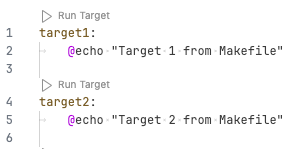
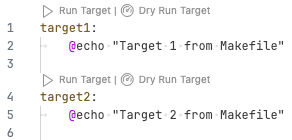
Dry run

diff --git a/src/inlineTargetRunner.ts b/src/inlineTargetRunner.ts
@@ -5,18 +5,8 @@ import * as target from "./target";
 import * as utils from "./utils";
 import { Runner } from "./runner";
 
-class TargetCodeLens extends vscode.CodeLens {
-  constructor(
-    range: vscode.Range,
-    public target: target.Target,
-    command?: vscode.Command
-  ) {
-    super(range, command);
-  }
-}
-
 export class InlineTargetRunner implements vscode.CodeLensProvider {
-  private codeLenses: TargetCodeLens[] = [];
+  private codeLenses: vscode.CodeLens[] = [];
   private _onDidChangeCodeLenses: vscode.EventEmitter<void> =
     new vscode.EventEmitter<void>();
   public readonly onDidChangeCodeLenses: vscode.Event<void> =
@@ -55,12 +45,7 @@ export class InlineTargetRunner implements vscode.CodeLensProvider {
       comment,
       matchIndex,
     } of this.runner.getMatchedTargetsInText(text)) {
-      const matchPosition: vscode.Position = document.positionAt(
-        matchIndex + comment.length + 2
-        // TODO: why 2?
-        // Without comment.length, the codelens would appera at the comment line, not the target line
-      );
-      const line: vscode.TextLine = document.lineAt(matchPosition);
+      // create target
       const newTarget = new target.Target({
         cmd: targetName,
         dir: fileDir,
@@ -68,24 +53,31 @@ export class InlineTargetRunner implements vscode.CodeLensProvider {
         comment: comment,
         runner: this.runner,
       });
-      this.codeLenses.push(new TargetCodeLens(line.range, newTarget));
+
+      // get target line
+      const matchPosition: vscode.Position = document.positionAt(
+        matchIndex + comment.length + 2
+        // TODO: why 2?
+        // Without comment.length, the codelens would appera at the comment line, not the target line
+      );
+      const line: vscode.TextLine = document.lineAt(matchPosition);
+
+      // add run target code lens
+      const runTargetCommand: vscode.Command = {
+        title: "$(play) Run Target",
+        command: `mk-targets-runner.runTarget.${this.runner.cmd}`,
+        arguments: [newTarget],
+      };
+      this.codeLenses.push(new vscode.CodeLens(line.range, runTargetCommand));
+
+      // add dry run target code lens
+      const dryRunTargetCommand: vscode.Command = {
+        title: "$(dashboard) Dry Run Target",
+        command: `mk-targets-runner.dryRunTarget.${this.runner.cmd}`,
+        arguments: [newTarget],
+      };
+      this.codeLenses.push(new vscode.CodeLens(line.range, dryRunTargetCommand));
     }
     return this.codeLenses;
-  }
-
-  public resolveCodeLens(
-    codeLens: TargetCodeLens,
-    token: vscode.CancellationToken
-  ) {
-    if (!config.isInlinedRunnerEnabled()) {
-      return null;
-    }
-
-    codeLens.command = {
-      title: "$(play) Run Target",
-      command: `mk-targets-runner.runTarget.${this.runner.cmd}`,
-      arguments: [codeLens.target],
-    };
-    return codeLens;
   }
 }

diff --git a/src/target.ts b/src/target.ts
@@ -2,6 +2,7 @@ import * as vscode from "vscode";
 import * as path from "path";
 
 import * as utils from "./utils";
+import * as config from "./config";
 import { Runner } from "./runner";
 import { WorkspaceStateKey } from "./constants";
 
@@ -34,40 +35,46 @@ export class Target {
     this.comment = comment || "";
   }
 
-  get cmd(): string {
-    // get run command from settings
-    let command: string | undefined = vscode.workspace
-      .getConfiguration("mk-targets-runner.command")
-      .get(this.runner.cmd);
-    if (!command) {
-      // TODO: user friendly error message
-      throw new Error(`No command found for runner ${this.runner}`);
-    }
-
+  private _replacePlaceholdersInCmd(cmd: string): string {
     // replace placeholders with values
     for (const property in this) {
       if (this.hasOwnProperty(property)) {
         const placeholder = `<${property}>`;
         const value = this[property];
         if (typeof value === "string") {
-          command = command.replace(placeholder, value);
+          cmd = cmd.replace(placeholder, value);
         }
       }
     }
-    return command;
+    return cmd;
   }
 
-  run(context: vscode.ExtensionContext): void {
-    // add target to workspace state
-    context.workspaceState.update(WorkspaceStateKey.LastExecutedTarget, this);
+  get cmd(): string {
+    return this._replacePlaceholdersInCmd(config.getRunCmd(this.runner));
+  }
 
+  private _sendCmdToTerminal(cmd: string): void {
     // send command to terminal if it exists or create one and send command
     let terminal = vscode.window.activeTerminal;
     if (!terminal) {
       terminal = vscode.window.createTerminal();
     }
     terminal.show();
-    terminal.sendText(this.cmd);
+    terminal.sendText(cmd);
+  }
+
+  get dryRunCmd(): string {
+    return this._replacePlaceholdersInCmd(config.getDryRunCmd(this.runner));
+  }
+
+  run(context: vscode.ExtensionContext): void {
+    // add target to workspace state
+    context.workspaceState.update(WorkspaceStateKey.LastExecutedTarget, this);
+    this._sendCmdToTerminal(this.cmd);
+  }
+
+  dryRun(context: vscode.ExtensionContext): void {
+    this._sendCmdToTerminal(this.dryRunCmd);
   }
 }
 

diff --git a/src/config.ts b/src/config.ts
@@ -30,3 +30,25 @@ export const isInlinedRunnerEnabled = (): boolean => {
   }
   return isInlinedRunnerEnabled;
 };
+
+export const getRunCmd = (runner: Runner): string => {
+  const command: string | undefined = vscode.workspace
+    .getConfiguration("mk-targets-runner.command")
+    .get(runner.cmd);
+  if (!command) {
+    // TODO: user friendly error message
+    throw new Error(`No command found for runner ${runner.cmd}`);
+  }
+  return command;
+};
+
+export const getDryRunCmd = (runner: Runner): string => {
+  const dryrunCommand: string | undefined = vscode.workspace
+    .getConfiguration("mk-targets-runner.dryrun")
+    .get(runner.cmd);
+  if (!dryrunCommand) {
+    // TODO: user friendly error message
+    throw new Error(`No command found for runner ${runner.cmd}`);
+  }
+  return dryrunCommand;
+};

diff --git a/src/runner.ts b/src/runner.ts
@@ -8,6 +8,7 @@ export class Runner {
   constructor(
     public cmd: string,
     public includeDirective: string,
+    public supportsDryRun: boolean,
     public targetCommentRegexpString: string
   ) {
     if (!targetCommentRegexpString.includes("?<comment>")) {
@@ -40,12 +41,14 @@ export class Runner {
 const Make = new Runner(
   "make",
   "include",
+  true,
   String.raw`^((#\s*(?<comment>[^\n|\\]*)(?!\\$)\n)?)(?<!\\\n) *(?<targetName>[a-zA-Z0-9_-]+):` // https://regex101.com/r/BmPAG0/1
 );
 
 const Just = new Runner(
   "just",
   "!include",
+  true,
   String.raw`^(#(?<comment>[^\n]*)\n)?(?<targetName>[a-zA-Z0-9_-]+):` // TODO
 );
 

diff --git a/src/extension.ts b/src/extension.ts
@@ -46,6 +46,14 @@ export function activate(context: vscode.ExtensionContext) {
         (tgt: Target) => tgt.run(context)
       )
     );
+
+    // dry run target
+    context.subscriptions.push(
+      vscode.commands.registerCommand(
+        `mk-targets-runner.dryRunTarget.${runner.cmd}`,
+        (tgt: Target) => tgt.dryRun(context)
+      )
+    );
   }
 
   context.subscriptions.push(

diff --git a/README.md b/README.md
@@ -28,8 +28,10 @@ Can be disabled via `mk-targets-runner.enableInlineTargetRunner`.
 
 | Property | Description | Type | Default Value |
 | - | - | - | - |
-| `mk-targets-runner.command.make` | The command to run makefiles targets. | `string` | `cd <dir>; make <name>; cd -` |
-| `mk-targets-runner.command.just` | The command to run justfiles targets. | `string` | `just -f <fsPath> <name>` |
+| `mk-targets-runner.command.make` | The command to run makefiles targets. | `string` | `make -C <dir> -f <fsPath> <name>` |
+| `mk-targets-runner.command.just` | The command to run justfiles targets. | `string` | `just -d <dir> -f <fsPath> <name>` |
+| `mk-targets-runner.dryrun.make` | The command to run makefiles targets in dry-run mode. | `string` | `make -C <dir> -f <fsPath> --dry-run <name>` |
+| `mk-targets-runner.dryrun.just` | The command to run justfiles targets in dry-run mode. | `string` | `just -d <dir> -f <fsPath> --dry-run <name>` |
 | `mk-targets-runner.filePattern.make` | The glob patterns to match makefiles. | `array` | `['Makefile', '*.mk']` |
 | `mk-targets-runner.filePattern.just` | The glob patterns to match justfiles. | `array` | `['justfile', '*.just']` |
 | `mk-targets-runner.excludedFoldersPatterns` | The glob patterns to exclude folders. | `array` | `['**/.git', '**/node_modules']` |
@@ -50,13 +52,7 @@ Can be disabled via `mk-targets-runner.enableInlineTargetRunner`.
   - [ ] Linting
   - [ ] Configurations generation
 - [ ] Add tests
-nLanguage` since the extension should be activated for any targetfile type which is dynmically determined. This is not ideal since it will be activated for any file.
-- Add support for:
-  - [ ] Rakefile
-  - [ ] Python typer
-- Git hooks for:
-  - [ ] Tests
-  - [ ] Linting
-  - [ ] Configurations generation
-- [ ] Add tests
-- [ ] Add command for dry run
+
+# Useful links
+
+- [Codicon icon font](https://microsoft.github.io/vscode-codicons/dist/codicon.html)

diff --git a/CHANGELOG.md b/CHANGELOG.md
@@ -24,3 +24,9 @@ and this project adheres to [Semantic Versioning](https://semver.org/spec/v2.0.0
 ### Fixed
 
 - Inline target runner with comments
+
+## [0.1.2] - 2023-12-01
+
+### Added
+
+- Inline dry-run
